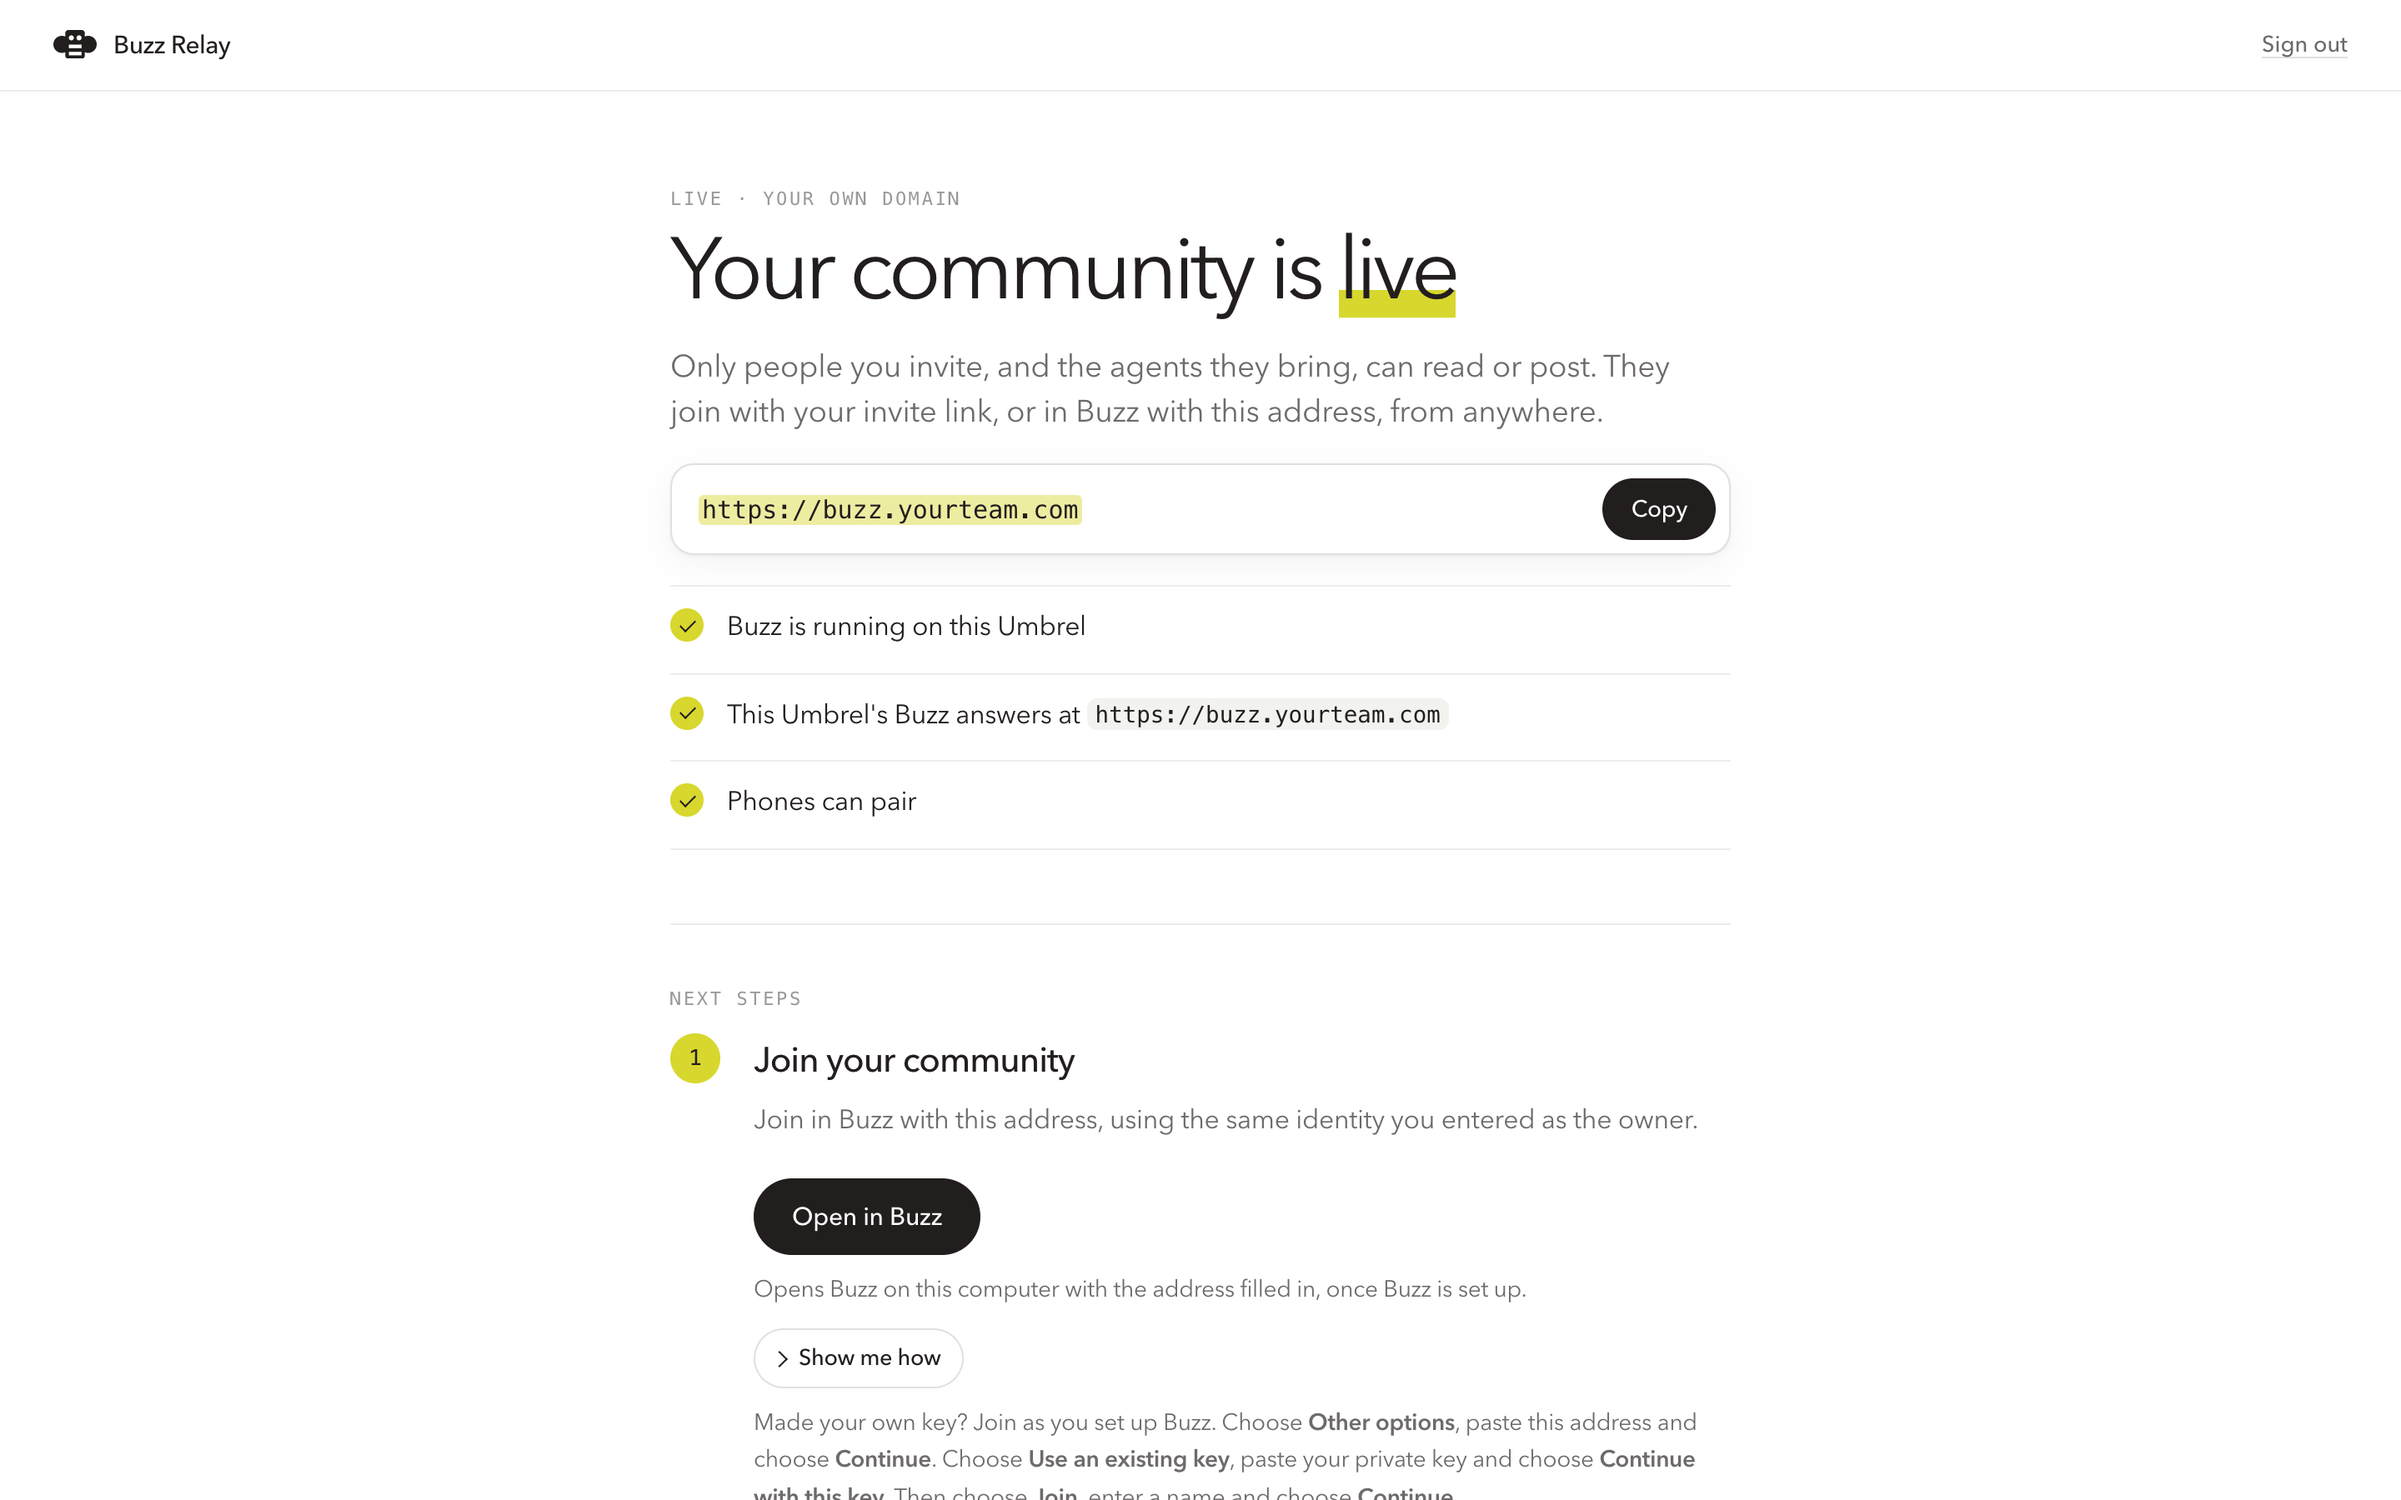
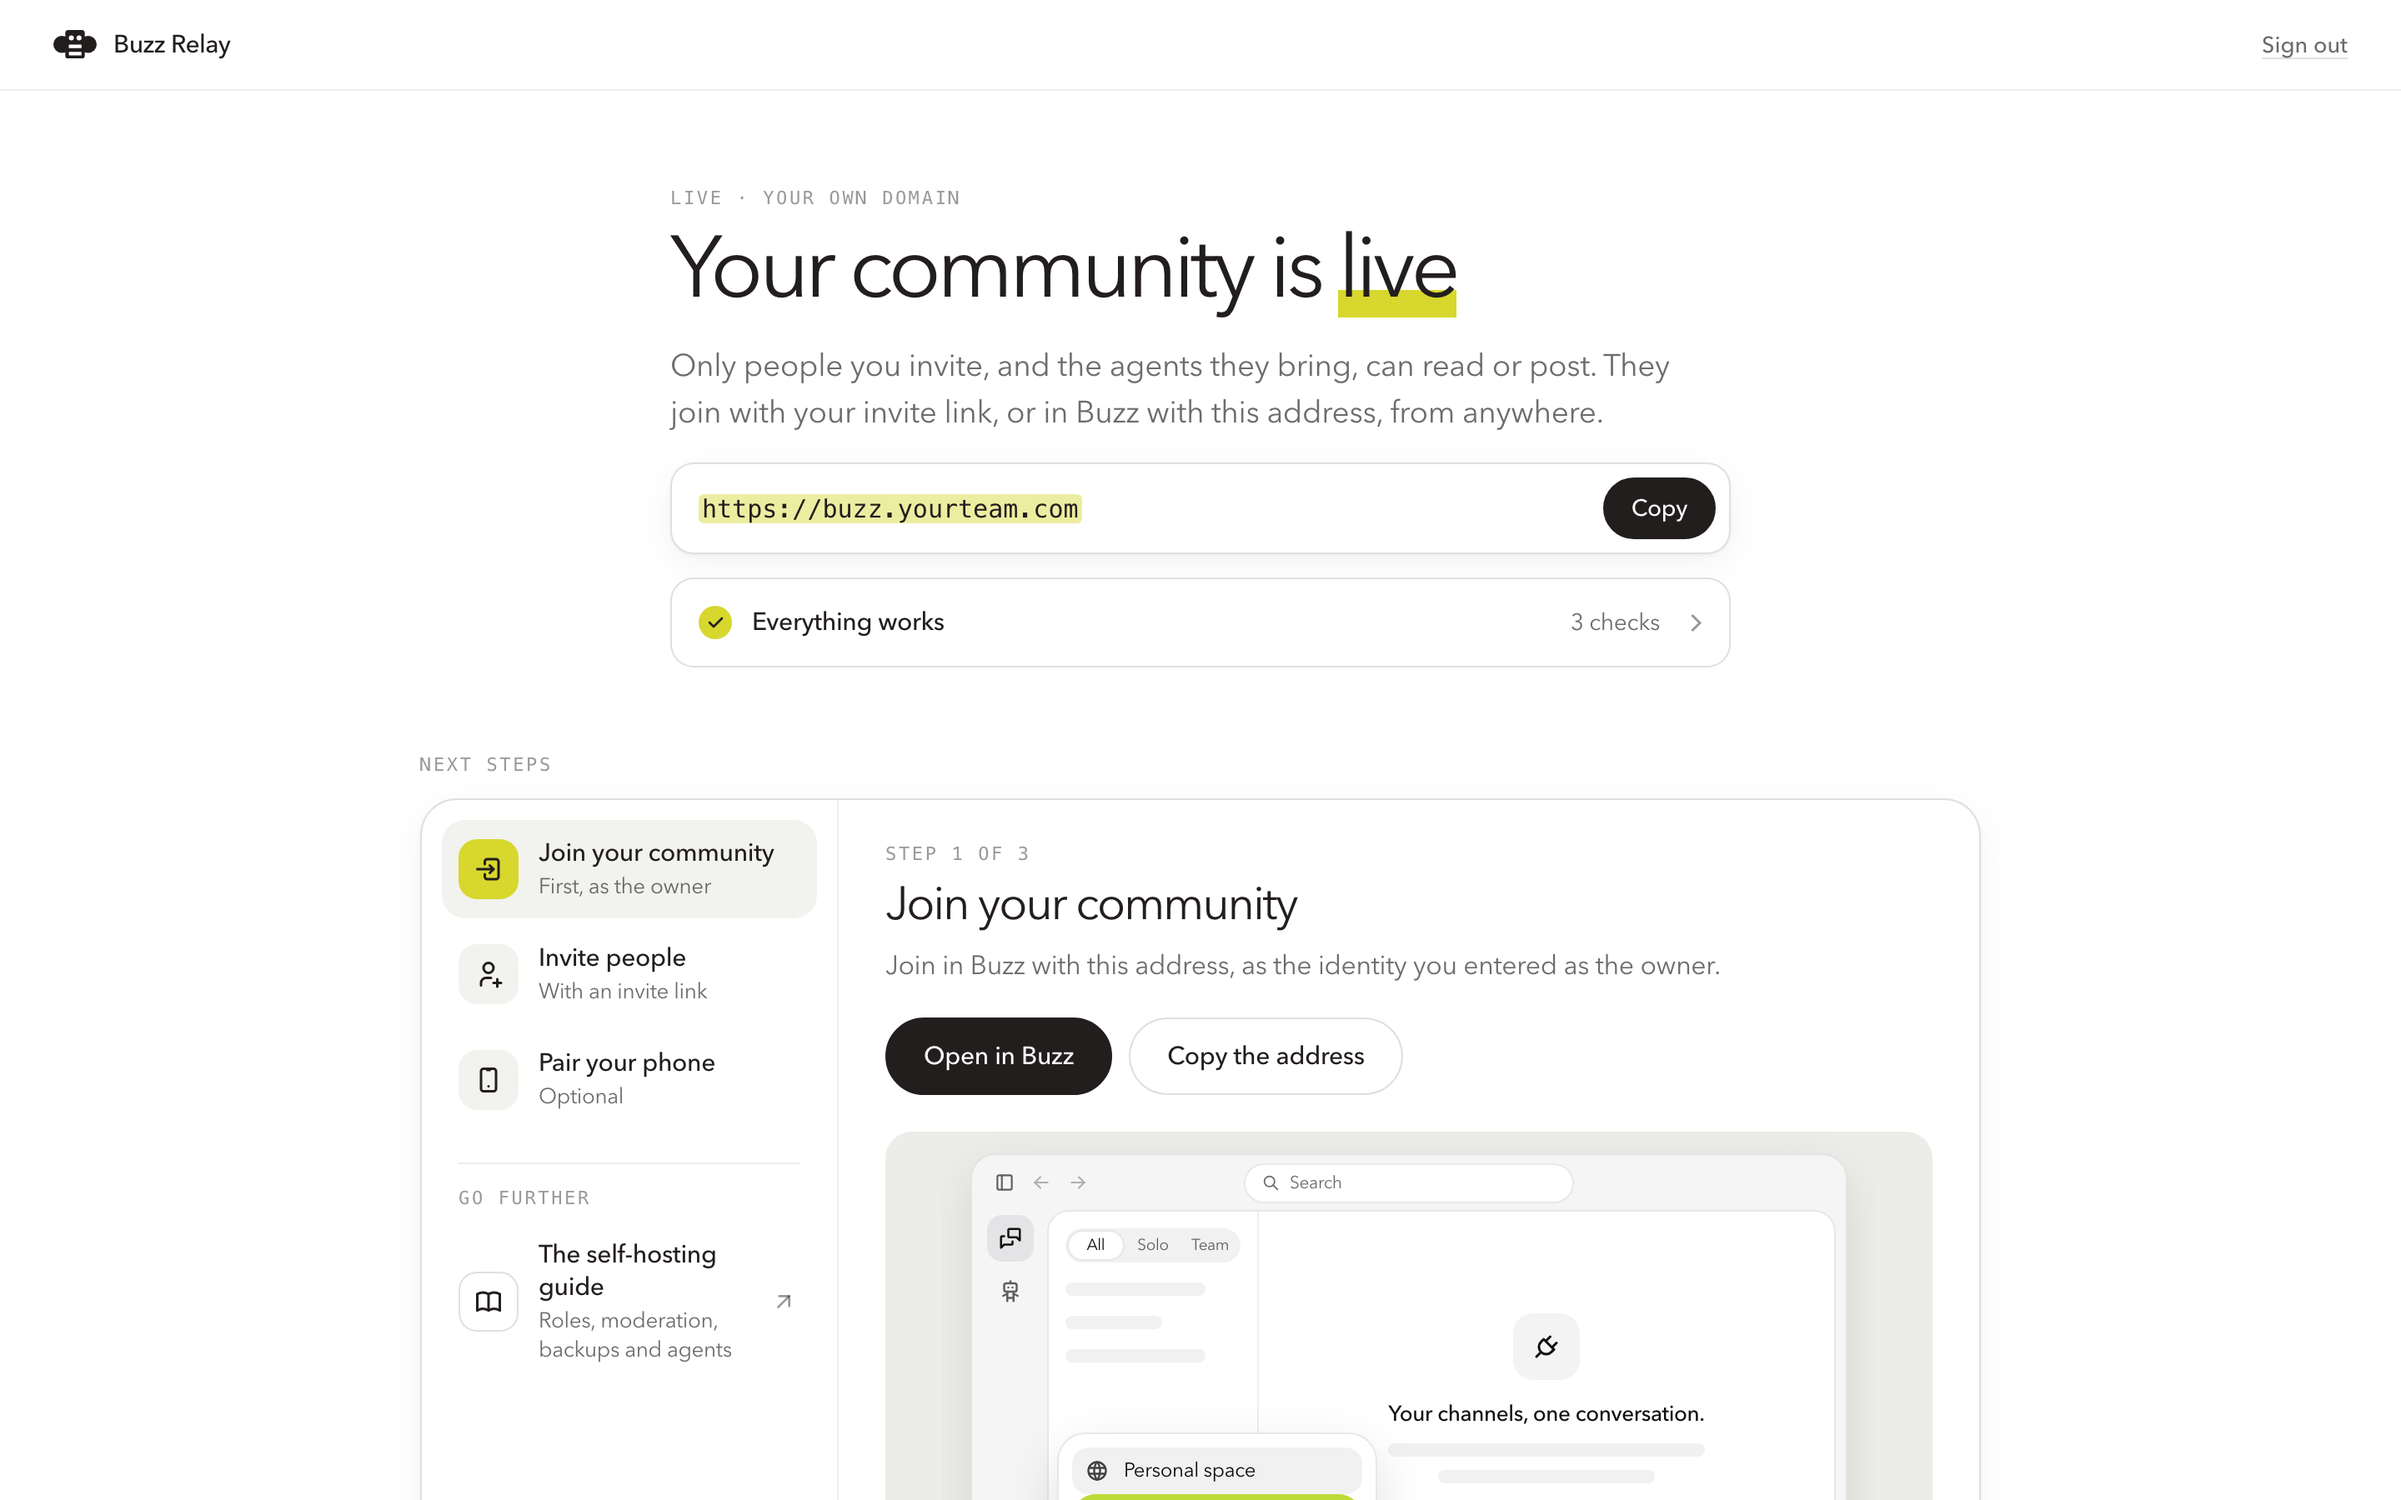
Umbrel: screenshots of the page's guide and checks
04, 05 and 06 retaken from the local previews at 1440 x 900, 2x: the progress bar while connecting
to Cloudflare, the live page's card and guide, and the guide's Invite step, opened with #invite.
Headless Chrome draws a page it scrolled to an anchor with its top blank, so 06 is cropped from a
capture too tall to scroll, at the place a browser scrolls to.

diff --git a/umbrel/submission/README.md b/umbrel/submission/README.md
@@ -23,7 +23,8 @@ Buzz's own, from [block/buzz-app](https://github.com/block/buzz-app):
    Buzz's own Settings.
 3. [`03-options.png`](screenshots/03-options.png): the three ways in, with your own domain chosen.
 4. [`04-cloudflare.png`](screenshots/04-cloudflare.png): connecting your own domain with one
-   Cloudflare sign-in.
-5. [`05-live.png`](screenshots/05-live.png): the community live, and the next steps.
-6. [`06-add-members.png`](screenshots/06-add-members.png): adding members, in a drawing of Buzz's
-   own screens.
+   Cloudflare sign-in, with a bar that shows what's done and what's yours to do.
+5. [`05-live.png`](screenshots/05-live.png): the community live, its checks in one card, and the
+   next steps as a guide.
+6. [`06-add-members.png`](screenshots/06-add-members.png): inviting people, a step of the guide, in a
+   drawing of Buzz's own screens.
